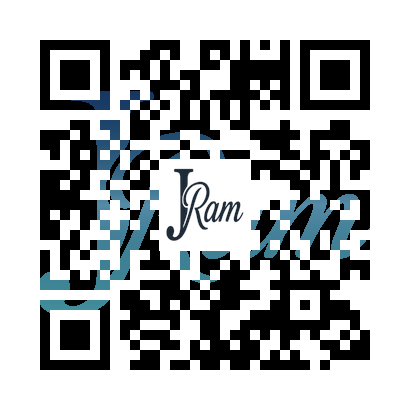
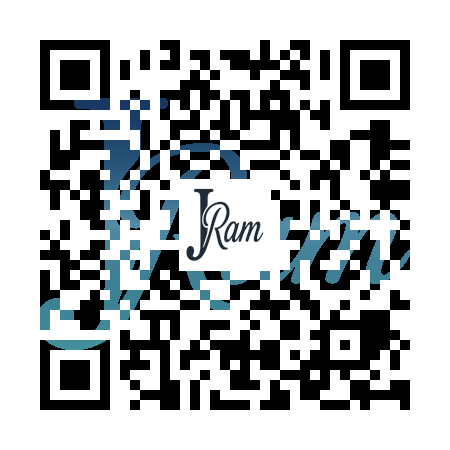
Add files via upload

diff --git a/Gen/QR_Ok.py b/Gen/QR_Ok.py
@@ -3,7 +3,7 @@ from PIL import Image, ImageDraw
 import math
 
 # ---------- CONFIG ----------
-qr_data = "https://ramiju81.github.io/Vcard/"
+qr_data = "https://womo-solucions.github.io/Vcard/"
 logo_text_path = "logo.png"   # imagen con las letras JR (se usará como molde)
 qr_logo_path = "logo.png"     # logo que irá en el centro (puede ser el mismo archivo)
 out_path = "QR_JR_Metalizado.png"

diff --git a/Gen/QR.py b/Gen/QR.py
@@ -3,7 +3,7 @@ from PIL import Image, ImageDraw
 import math
 
 # ---------- CONFIG ----------
-qr_data = "https://ramiju81.github.io/Vcard/"
+qr_data = "https://womo-solucions.github.io/Vcard/"
 logo_text_path = "logo.png"   # imagen con las letras JR (se usará como molde)
 qr_logo_path = "logo.png"     # logo que irá en el centro (puede ser el mismo archivo)
 out_path = "QR_Ing Juli.png"
